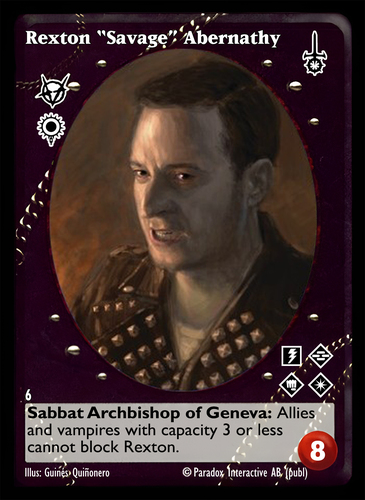
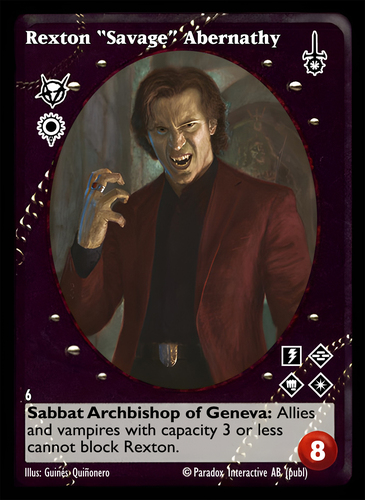
update legacy images

Changed region(s): [[0.1205, 0.09, 0.874, 0.81], [0.8438, 0.33, 0.874, 0.39]]

diff --git a/TODO.md b/TODO.md
@@ -5,7 +5,6 @@
 
 # FEATURES
 - Inventory target documentation
-- New legacy images
 
 # FEATURES ON HOLD
 - Draft Cube support -> when draft cube info is available
